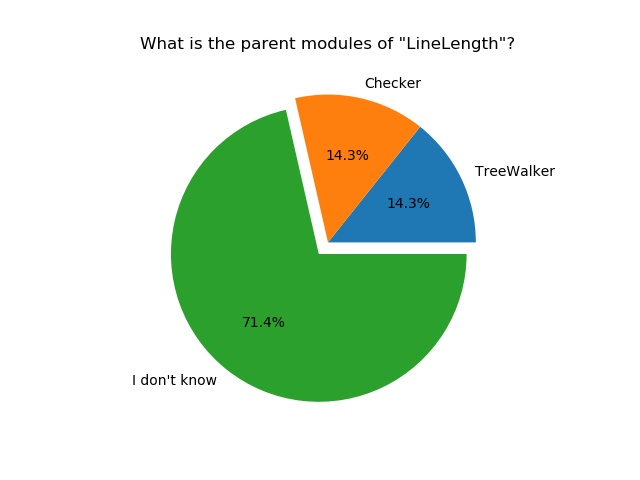
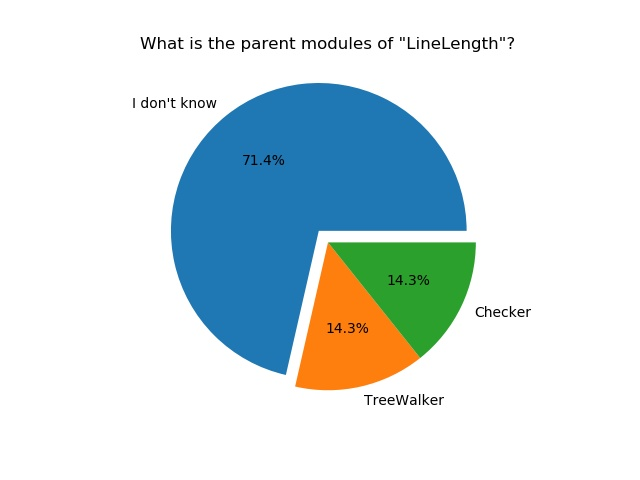
Add preferred_method_overall figure and auto-update feedback_responses.csv from Google Sheet

diff --git a/reports/week10/evaluation/generate_figures.py b/reports/week10/evaluation/generate_figures.py
@@ -1,8 +1,24 @@
-import os
 import os.path as path
 import csv
+import requests
 import matplotlib.pyplot as plt
 import numpy as np
+
+def update_responses_file(file_path):
+  '''
+  Gets the most recent content in the Google Sheet containing the feedback
+  form's responses and writes it to "file_path"
+  '''
+  # The id of the google sheet that holds our feedback form's responses
+  sheet_id = '1UbKDC5v8Um6HFpE1IxNxyeKPwB1DkcMKANuheFg4p3w'
+  url = 'https://docs.google.com/spreadsheets/d/' + sheet_id + '/export?format=csv'
+  with open(file_path, 'w') as out:
+    content = str(requests.get(url).content)[2:-1]
+    content = (content
+      .replace('\\r', '')
+      .replace('\\n', '\n')
+      .replace('\\\'', '\''))
+    out.write(content)
 
 def list_for_index_and_method(rows, i, method):
   '''
@@ -10,7 +26,7 @@ def list_for_index_and_method(rows, i, method):
   "i" by way of "method".
   '''
   assert i % 2 == 0
-  return [float(row[i + 1]) for row in rows[1:] if row[i] == method]
+  return tuple(float(row[i + 1]) for row in rows[1:] if row[i] == method)
 
 def time_to_complete_dict(rows):
   '''
@@ -37,8 +53,8 @@ def plot_time_to_complete(ttc_dict, out_dir='.'):
   '''
   # Data to plot
   n_groups = 3
-  gui_series = [sum(times) / len(times) for times in ttc_dict['GUI'].values()]
-  xml_series = [sum(times) / len(times) for times in ttc_dict['XML'].values()]
+  gui_series = tuple(sum(times) / len(times) for times in ttc_dict['GUI'].values())
+  xml_series = tuple(sum(times) / len(times) for times in ttc_dict['XML'].values())
 
   # Create plot
   index = np.arange(n_groups)
@@ -61,29 +77,48 @@ def column_dict(rows):
   values in said column.
   '''
   return {
-    header: [row[i] for row in rows[1:]]
+    header: tuple(row[i] for row in rows[1:])
     for i, header in enumerate(rows[0])
   }
 
-def pie_chart_for(series, title, exploded_label='I don\'t know', out_dir='.', file_name=''):
+def pie_chart_for(
+  series,
+  title,
+  axis_label='',
+  exploded_label='GUI',
+  out_dir='.',
+  file_name=''
+):
   '''
   Saves a pie chart of "series" with a title of "title" in a file named
   "file_name" in directory "out_dir"
   '''
-  labels = list(set(series))
-  sizes = [series.count(label) for label in labels]
+  labels = tuple(set(series))
+  sizes = tuple(series.count(label) for label in labels)
   index = next(i for i, label in enumerate(labels) if label == exploded_label)
-  explode = [0.1 if i == index else 0 for i, label in enumerate(labels)]
+  explode = tuple(0.1 if i == index else 0 for i, label in enumerate(labels))
 
   plt.pie(sizes, explode=explode, labels=labels, autopct='%1.1f%%')
   plt.title(title)
+  if len(axis_label) > 0:
+    plt.xlabel(axis_label)
   plt.savefig(path.join(out_dir, file_name + '.jpg'))
   plt.cla()
+
+def get_gui_preference_series(columns):
+  gui_votes = columns['How hard/easy it is to create a linter configuration with the GUI?']
+  xml_votes = columns['How hard/easy it is to create a linter configuration with XML?']
+  assert len(gui_votes) == len(xml_votes)
+
+  return tuple('GUI'  if int(gui_votes[i]) > int(xml_votes[i]) else 'XML' for i in range(len(gui_votes)))
 
 # File names
 time_to_complete_file_name = 'time_to_complete.csv'
 feedback_responses_file_name = 'feedback_responses.csv'
 directory, _ = path.split(__file__)
+
+# Get most recent CSV from form responses
+update_responses_file(path.join(directory, feedback_responses_file_name))
 
 # Lines of CSV
 with open(directory + '/' + time_to_complete_file_name) as ttc_file:
@@ -101,6 +136,7 @@ with open(directory + '/' + feedback_responses_file_name) as fr_file:
     pie_chart_for(
       fr_dict[question],
       question,
+      exploded_label='I don\'t know',
       out_dir=path.join(directory, 'figures'),
       file_name='parent_module_' + str(i + 1)
     )
@@ -112,7 +148,19 @@ with open(directory + '/' + feedback_responses_file_name) as fr_file:
     pie_chart_for(
       fr_dict[question],
       question,
-      exploded_label='GUI',
       out_dir=path.join(directory, 'figures'),
       file_name='preferred_method_' + str(i + 1)
     )
+  series = get_gui_preference_series(fr_dict)
+  pie_chart_for(
+    series,
+    'Which method is easier overall for creating a linter configuration?',
+    axis_label=(
+      'Number who preferred GUI: '
+      + str(series.count('GUI'))
+      + ', Number who preferred XML: '
+      + str(series.count('XML'))
+    ),
+    out_dir=path.join(directory, 'figures'),
+    file_name='preferred_method_overall'
+  )
